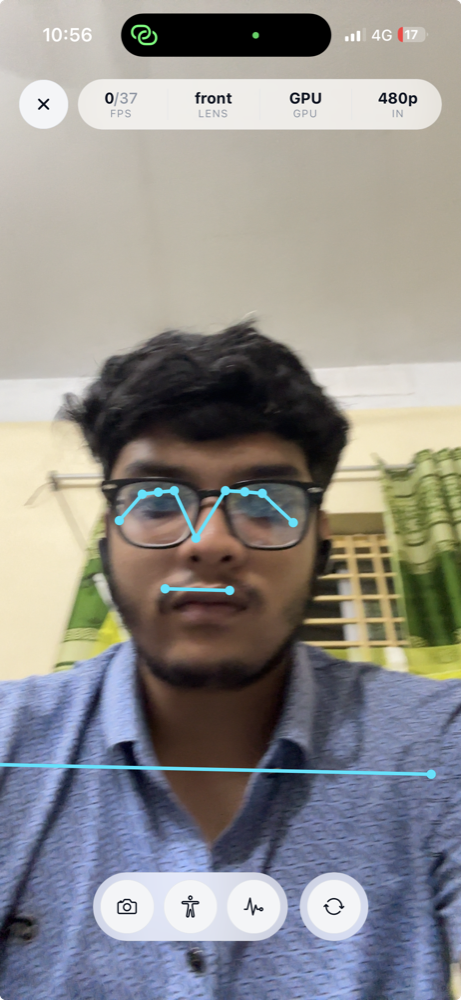
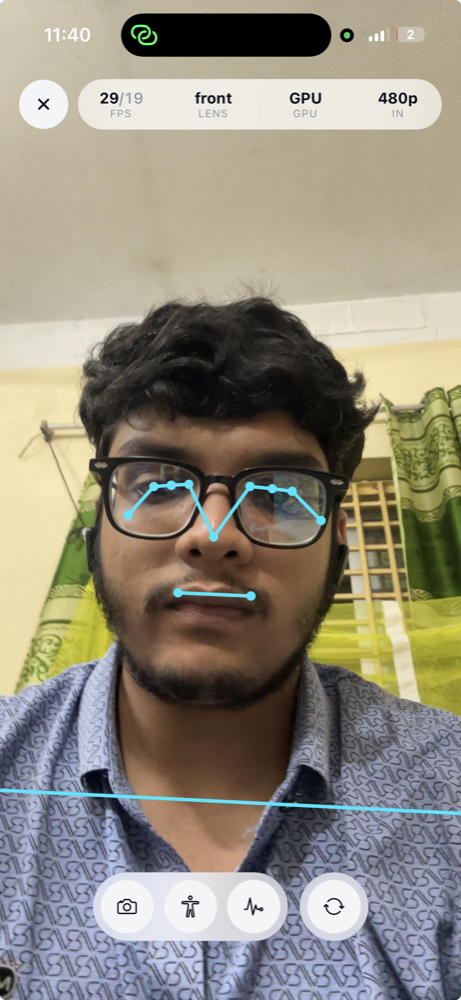
docs: the exported frame is the cover, the screens ride a strip below

diff --git a/packages/core/README.md b/packages/core/README.md
@@ -8,11 +8,13 @@ and drawn entirely in the native layer, powered by MediaPipe.
 [![license](https://img.shields.io/badge/license-MIT-blue.svg)](https://github.com/khalid999devs/react-native-pose-detection/blob/main/LICENSE)
 ![platforms](https://img.shields.io/badge/platforms-iOS%20%7C%20Android-black)
 
-| Live camera | Painting a clip | Painting a photo |
-| --- | --- | --- |
-| ![Live camera with the skeleton tracking a person](https://raw.githubusercontent.com/khalid999devs/react-native-pose-detection/main/ss/live-camera.png) | ![Studio screen painting an uploaded video](https://raw.githubusercontent.com/khalid999devs/react-native-pose-detection/main/ss/studio-video.png) | ![Studio screen painting an uploaded photo](https://raw.githubusercontent.com/khalid999devs/react-native-pose-detection/main/ss/studio-photo.png) |
-
 ![A frame of an exported video with the skeleton painted in](https://raw.githubusercontent.com/khalid999devs/react-native-pose-detection/main/ss/export-frame.png)
+
+<p align="center">
+  <img alt="Live camera with the skeleton tracking a person" src="https://raw.githubusercontent.com/khalid999devs/react-native-pose-detection/main/ss/live-camera.png" width="30%" />
+  <img alt="Studio screen painting an uploaded video" src="https://raw.githubusercontent.com/khalid999devs/react-native-pose-detection/main/ss/studio-video.png" width="30%" />
+  <img alt="Studio screen painting an uploaded photo" src="https://raw.githubusercontent.com/khalid999devs/react-native-pose-detection/main/ss/studio-photo.png" width="30%" />
+</p>
 
 ## Why this one
 

diff --git a/README.md b/README.md
@@ -8,11 +8,13 @@ powered by MediaPipe.
 [![license](https://img.shields.io/badge/license-MIT-blue.svg)](./LICENSE)
 ![platforms](https://img.shields.io/badge/platforms-iOS%20%7C%20Android-black)
 
-| Live camera | Painting a clip | Painting a photo |
-| --- | --- | --- |
-| ![Live camera with the skeleton tracking a person](./ss/live-camera.png) | ![Studio screen painting an uploaded video](./ss/studio-video.png) | ![Studio screen painting an uploaded photo](./ss/studio-photo.png) |
-
 ![A frame of an exported video with the skeleton painted in](./ss/export-frame.png)
+
+<p align="center">
+  <img alt="Live camera with the skeleton tracking a person" src="./ss/live-camera.png" width="30%" />
+  <img alt="Studio screen painting an uploaded video" src="./ss/studio-video.png" width="30%" />
+  <img alt="Studio screen painting an uploaded photo" src="./ss/studio-photo.png" width="30%" />
+</p>
 
 > **Pre-release, not yet published.** Both platforms are complete: the camera, the detector, the
 > native overlay, the trigger engine, the geometry and the self-tuning performance governor, on
